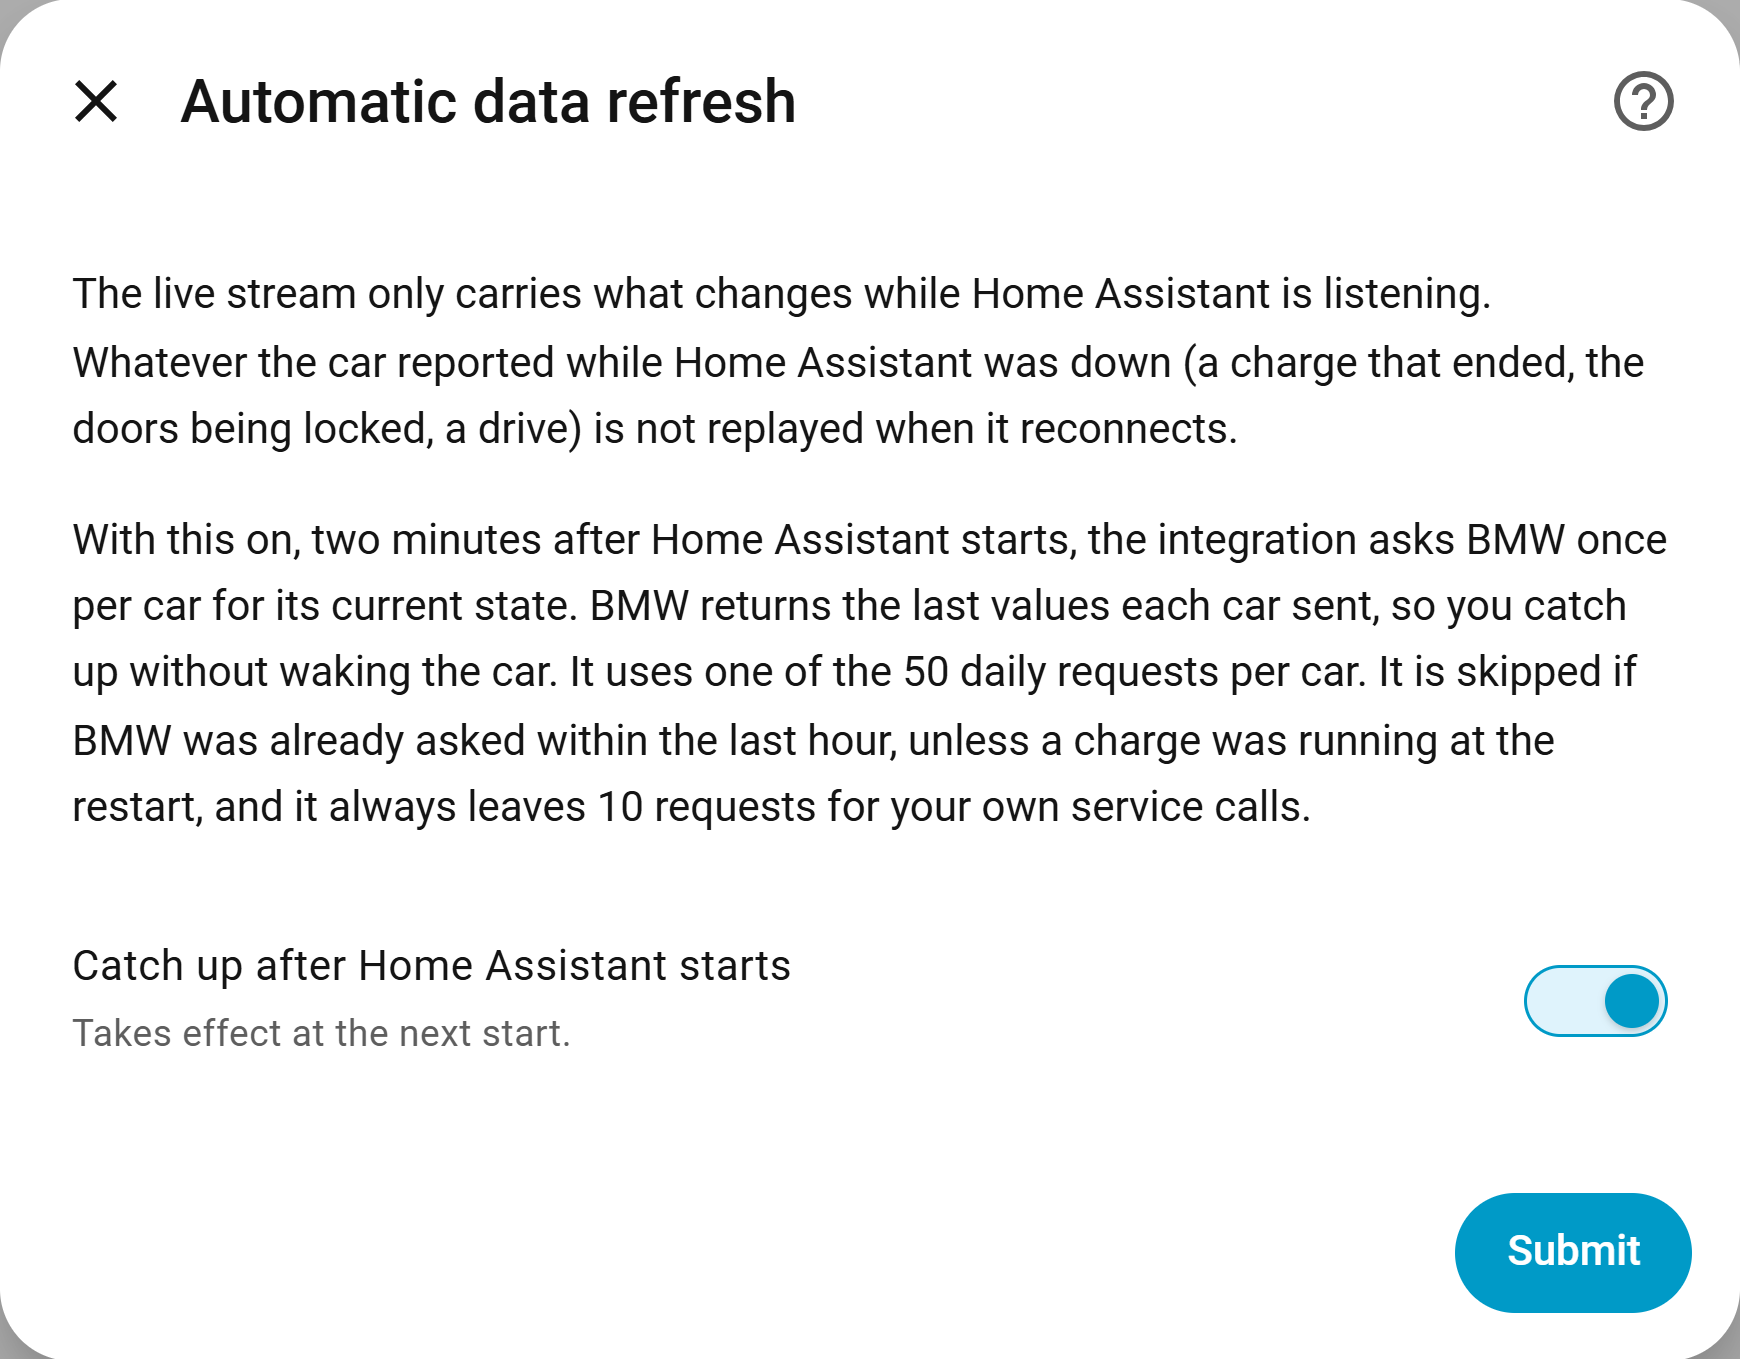
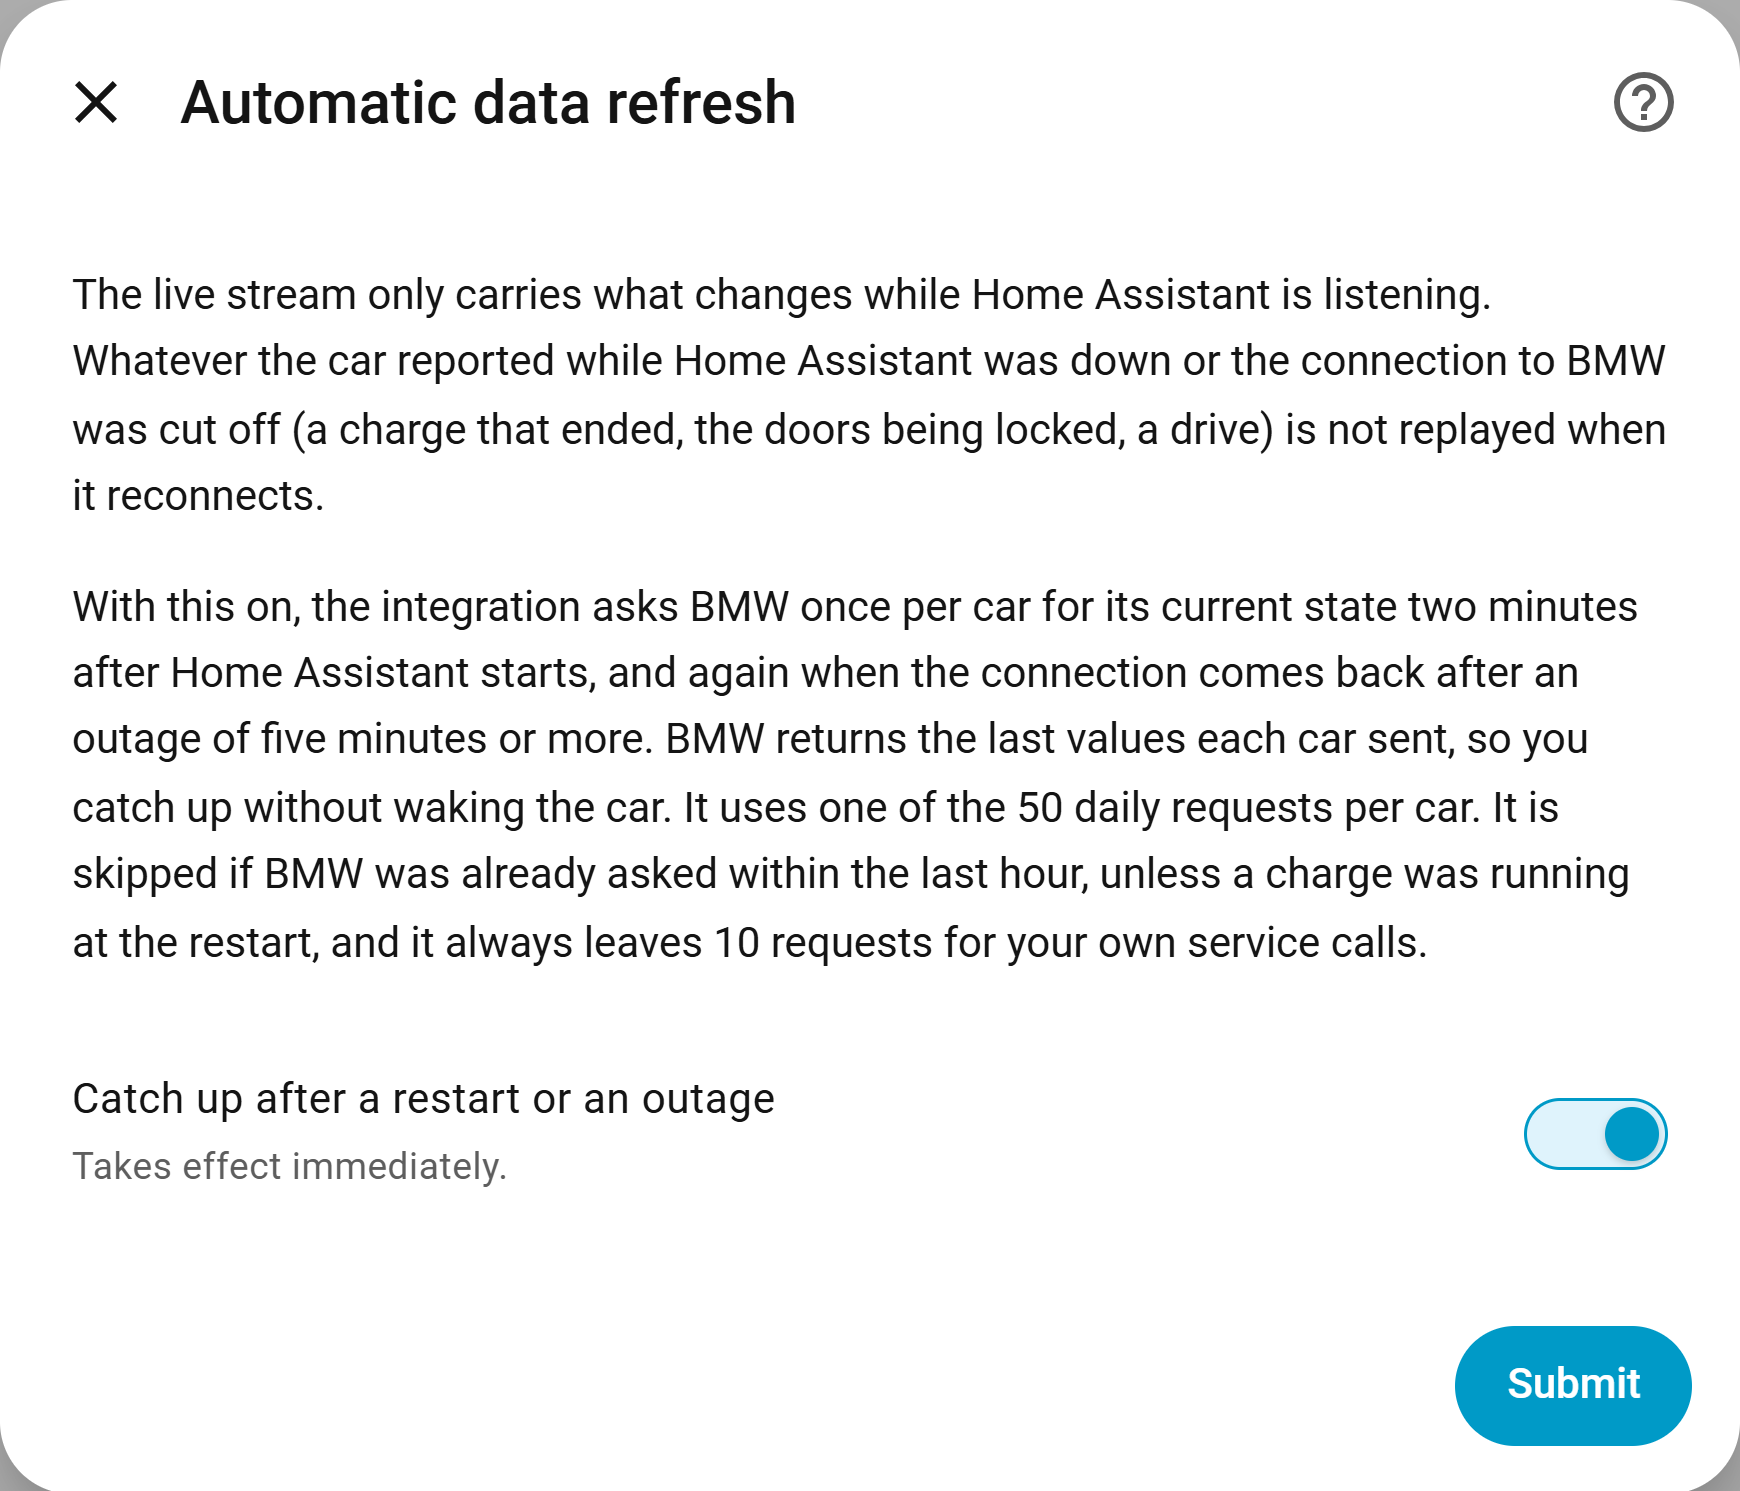
Retake the Automatic data refresh screenshot after the rename

diff --git a/docs/documentation-plan.md b/docs/documentation-plan.md
@@ -138,7 +138,7 @@ These live on BMW's MyBMW / CarData portal, not in our code. Screenshots are
 | `action_fetch_tyre` | Fetch tire diagnosis | 🟡 | — |
 | `action_fetch_location_charging` | Fetch location charging settings | 🟡 | — |
 | `action_fetch_image` | Fetch vehicle image | 🟡 | — |
-| `action_data_refresh` | Automatic data refresh | 🟢 Settings-Reference → "Automatic data refresh" | 📷 **owed** — retake after 0.9.13-beta.2 is installed (option renamed) |
+| `action_data_refresh` | Automatic data refresh | 🟢 Settings-Reference → "Automatic data refresh" | 📷 |
 | `action_charging_costs` | Charging costs & history | 🟡 | 📷 |
 | `action_evcc_bridge` | evcc / wallbox bridge | 🟢 Feature-evcc-and-Wallbox-Bridge + Settings-Reference → "evcc / wallbox bridge" | 📷 **owed** — needs the build installed |
 | `evcc_snippet` | evcc configuration (generated, paste-ready) | 🟢 Feature-evcc-and-Wallbox-Bridge → "Setting it up" | 📷 **owed** — needs the build installed |
